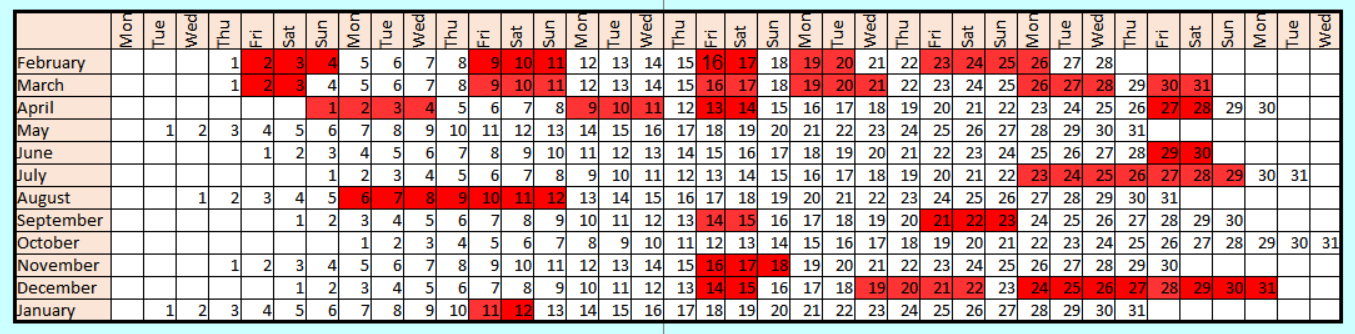
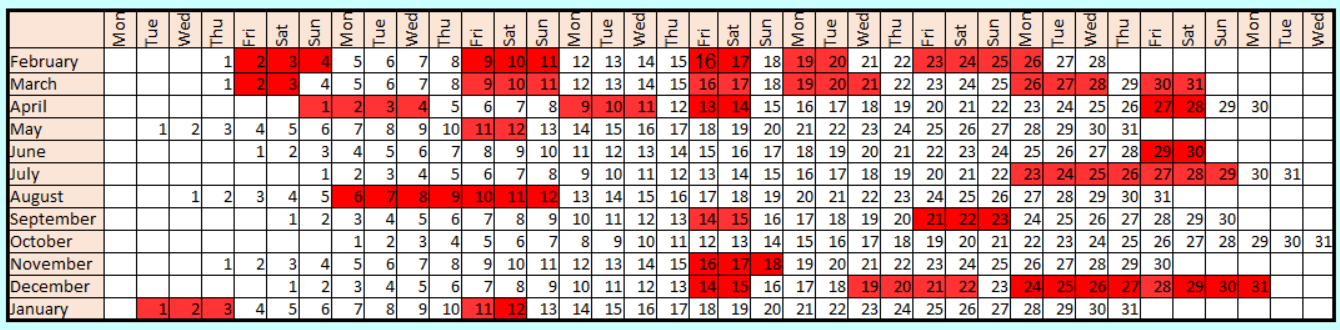
updated calendar and changed special offers

diff --git a/specialoffers.html b/specialoffers.html
@@ -96,22 +96,27 @@
 				<div class="image main">
 					
 				</div>
-				<h2><p style="color:#FF0000";>Massive reduction - 2 nights in March down to £205.00!</p></h2>
-				<p>We have a two night midweek break available with huge savings! Why not treat yourself to a discounted getaway?</p>
+				<h2><p style="color:#FF0000";>Special Offer #1 - 3 nights in March down to £255.00!</p>
+				<p style="color:#FF0000";>Or have 2 nights for £205!</p></h2>
+				<p>We have a two or three night midweek break available with huge savings! Why not treat yourself to a discounted getaway?</p>
 				<span class="image left">
 					<img src="images/specialofferlogo.jpg"  width="200px" border="1px">
 				  </span>
 			
 		 
 				  <div>
-					  <p> Tuesday March 13th for two nights now reduced to £205. Get in quick and grab a bargain</p>
+					  <p>Monday 12th March for three nights - Now only £255.00!or two nights now reduced to £205. Get in quick and grab a bargain</p>
 					  
 				  </div>
 				  <div>
-						Just over £100 per night, shared between a party of six is around £17 per day!
+						Three nights works out at £85 per night, between six that is just over £14 per person, per day!
 				  </div>
+				  <br>
+				  <br>
+				  <h2><p style="color:#FF0000";>Special Offer #2 - Two night weekend in March down to £455!</p></h2>
+					<p>Friday 23rd March is available for a two night break at the low cost of £455!</p>
 		</div>
-		
+
 	</section>
 		<!-- Footer -->
 		<footer id="footer">
